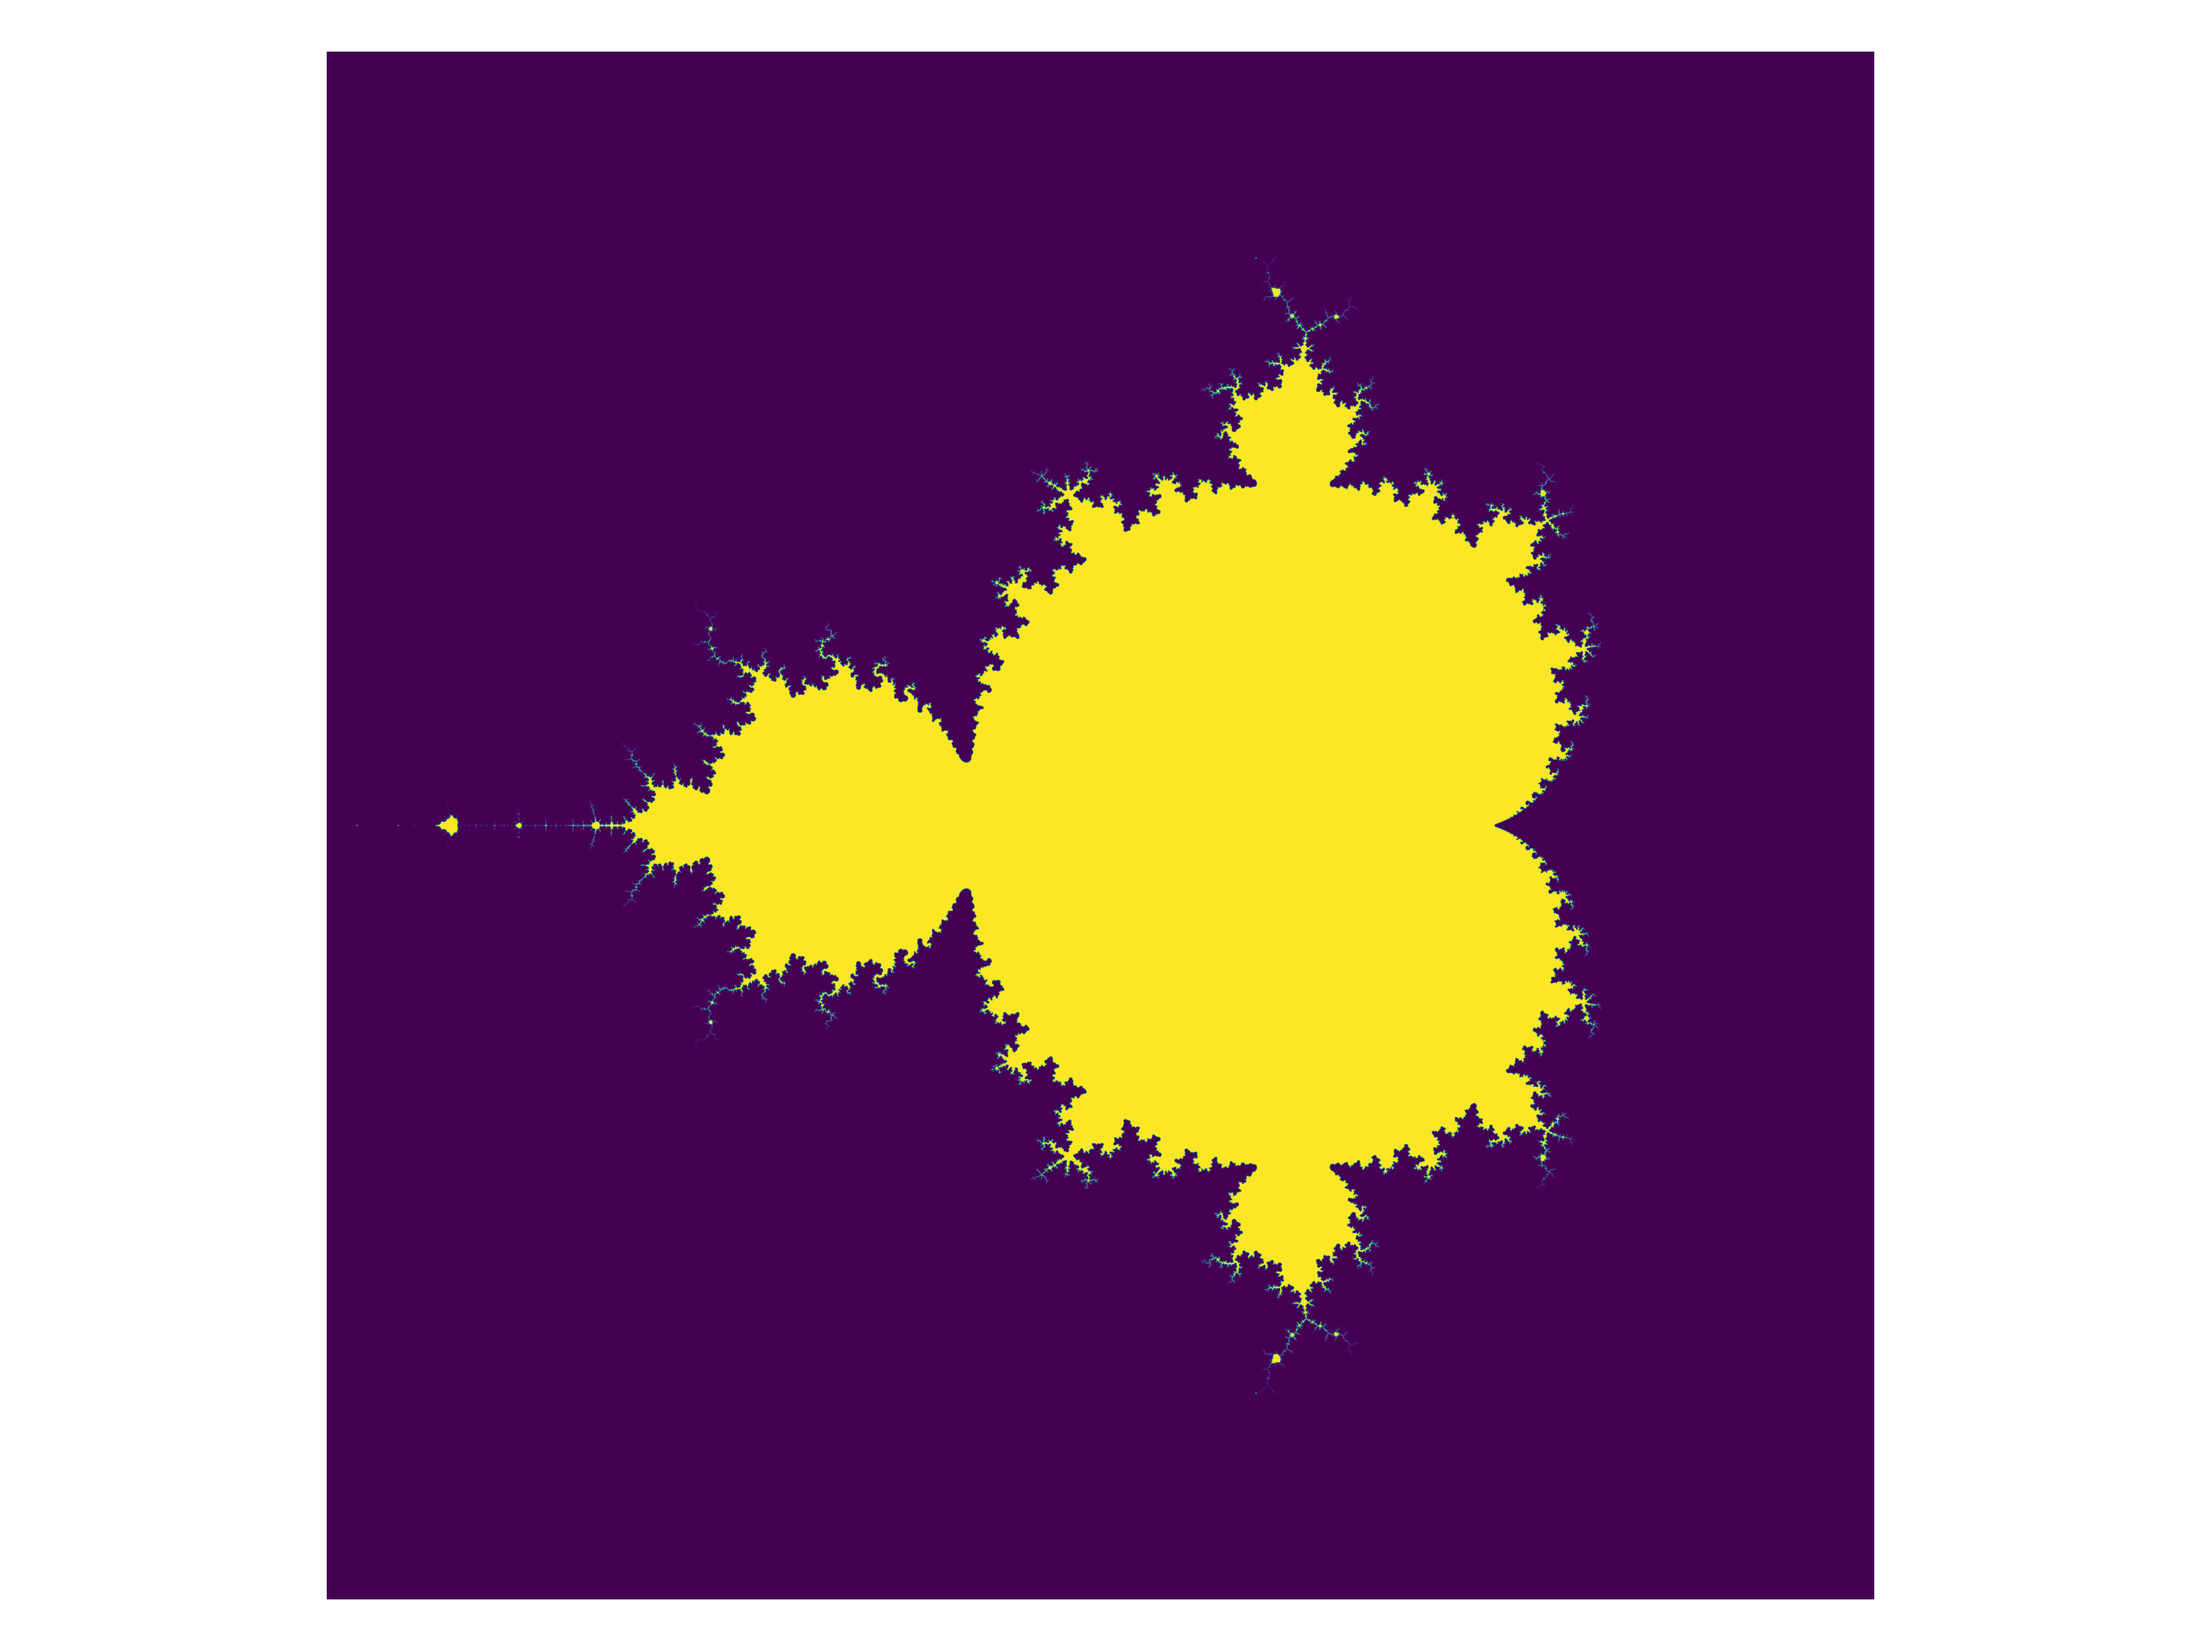
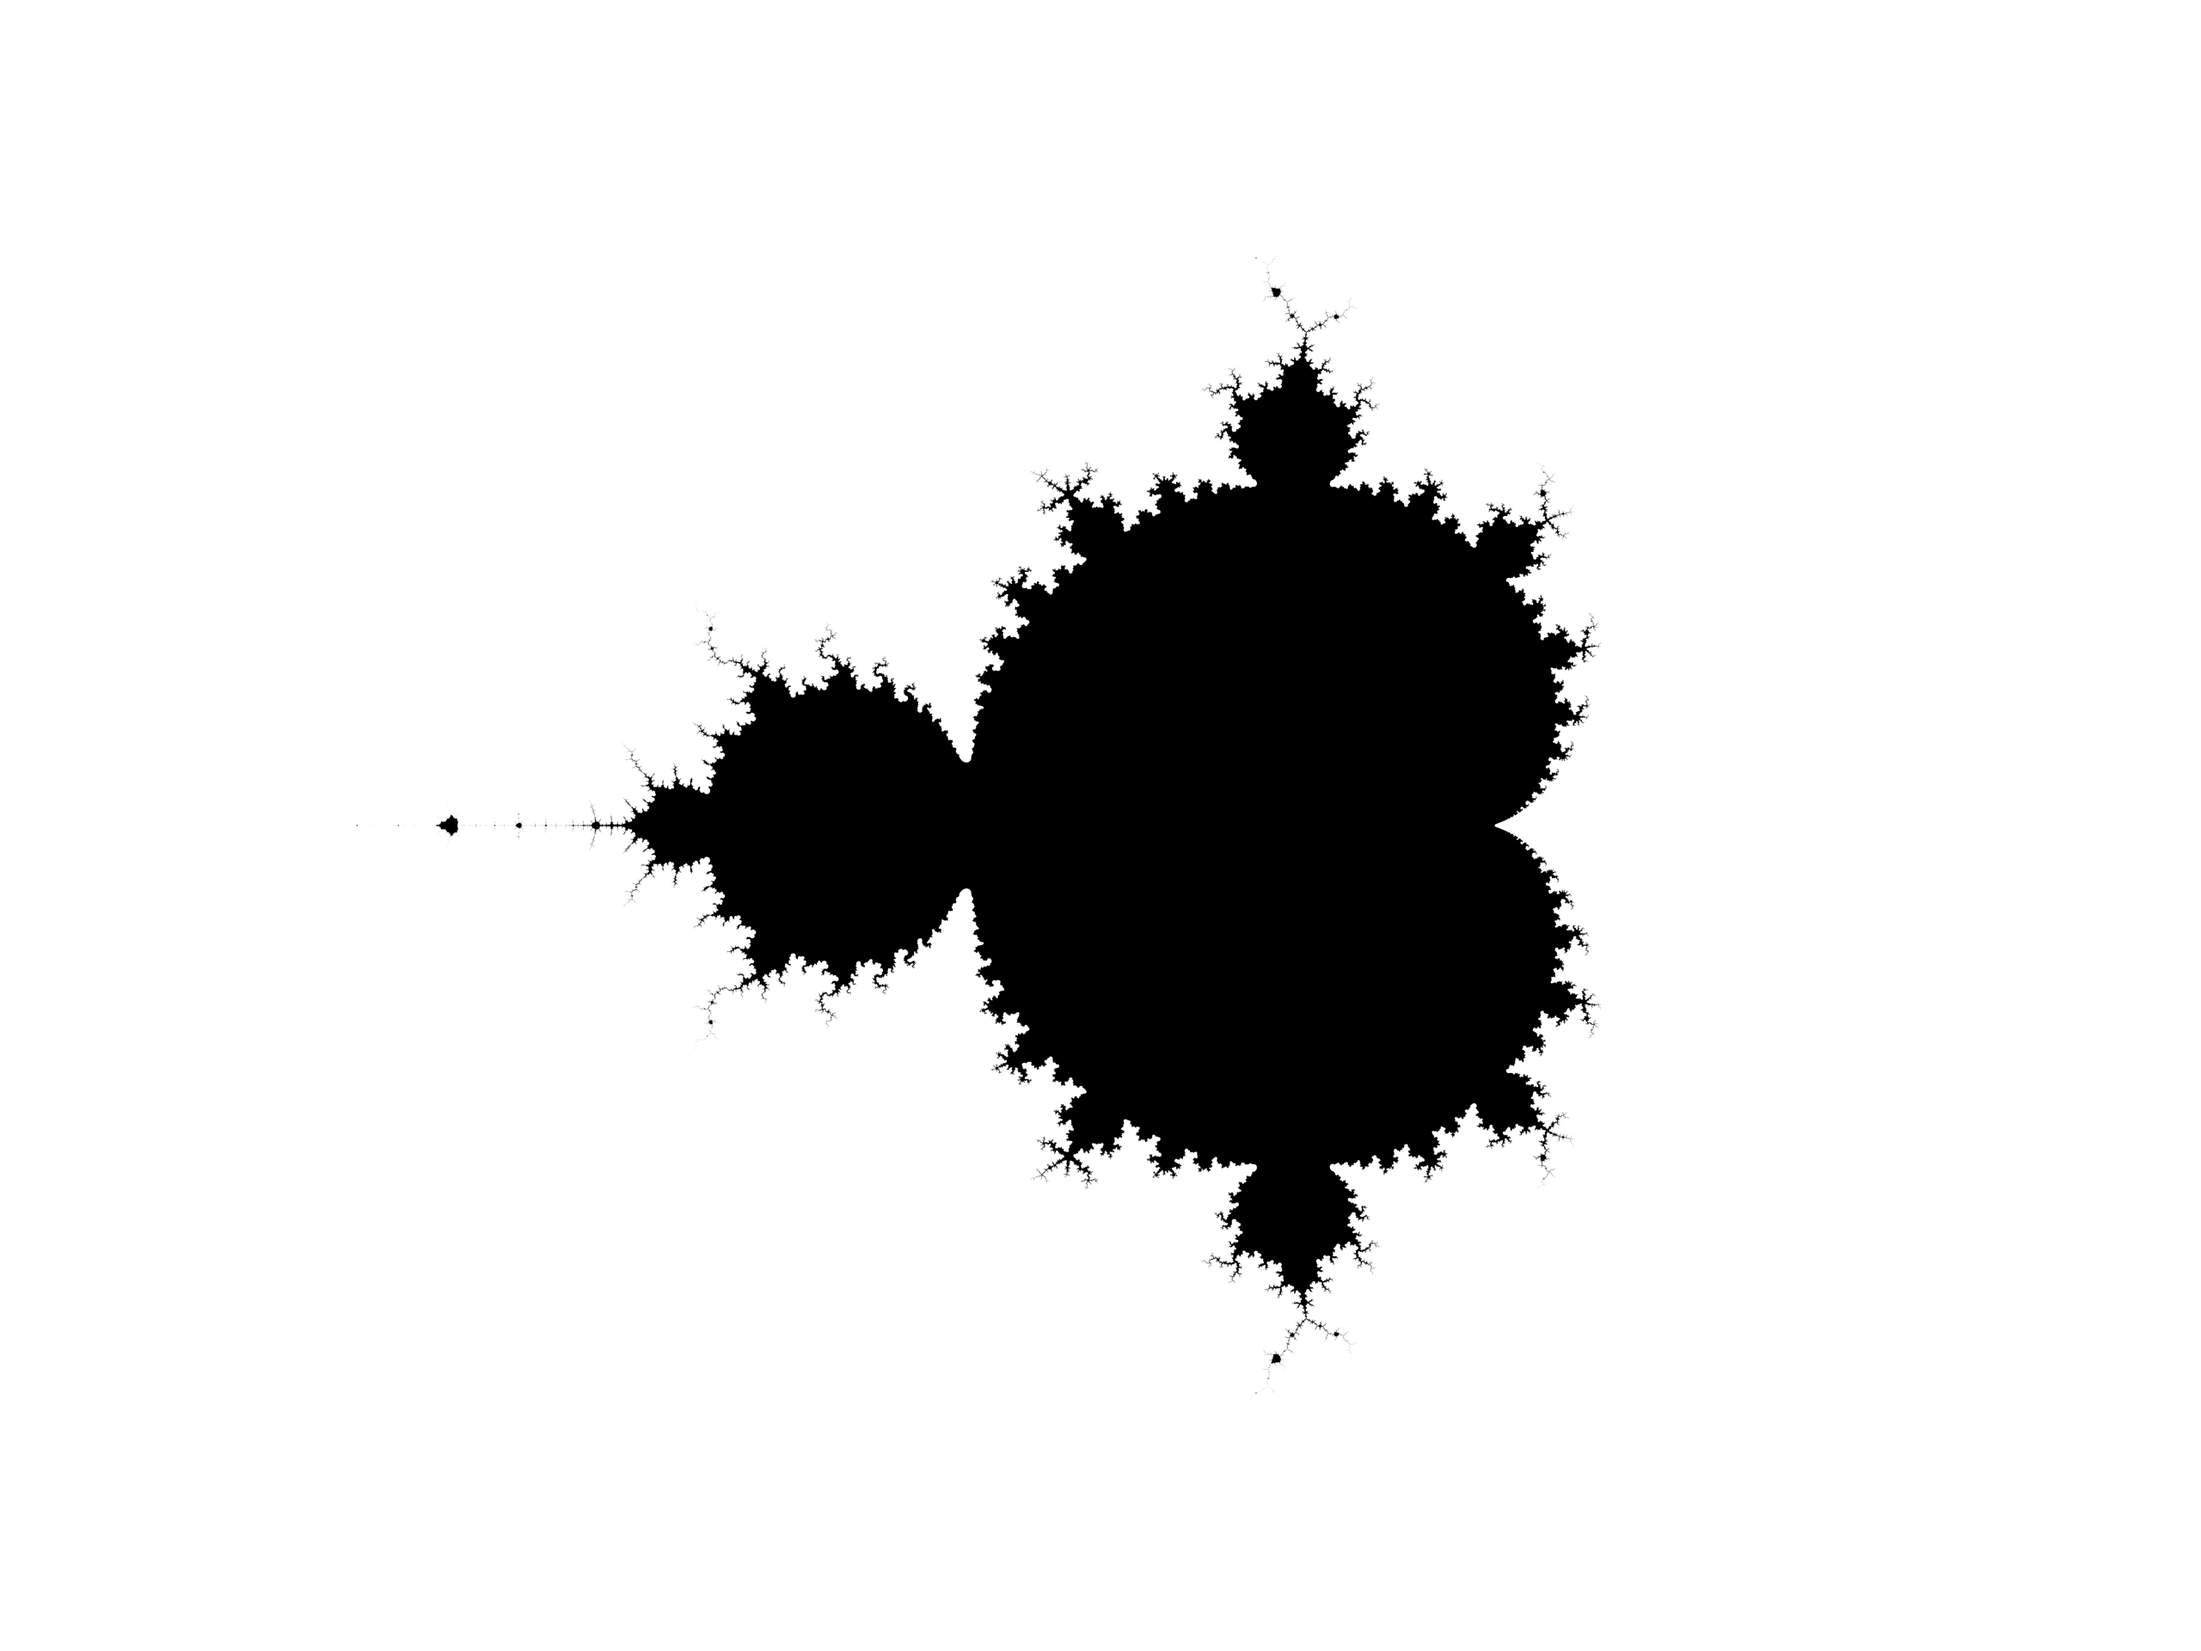
Organizando mandelbrot. Adicionando notas sobre erro no metodo de Euler.

diff --git a/Complex/creatingGrid.py b/Complex/creatingGrid.py
@@ -1,0 +1,23 @@
+import numpy as np
+import matplotlib.pyplot as plt
+
+xlim = (-10, 10)
+ylim = (0, 10)
+pixel_density = 5
+x = np.linspace(-10, 10, pixel_density*(xlim[1] - xlim[0]))
+y = np.linspace(0, 10, pixel_density*(ylim[1] - ylim[0]))
+X, Y = np.meshgrid(x, y)
+M = X + 1j*Y
+
+# Circle of radius 2
+circle_mask = abs(M - 2j) <= 2
+
+plt.gca().set_aspect("equal")
+# Plot grid
+plt.scatter(M.real, M.imag, marker=".", color ="green")
+# Plot circle
+plt.scatter(M[circle_mask].real, M[circle_mask].imag, marker=".", color="blue")
+plt.xlim(-15, 15)
+plt.ylim(-5, 15)
+plt.tight_layout()
+plt.show()

diff --git a/Complex/plottingHighRes.py b/Complex/plottingHighRes.py
@@ -1,0 +1,23 @@
+import numpy as np
+import matplotlib.pyplot as plt
+
+
+def is_stable(no_iterations = 24):
+    z = 0
+    for _ in range(no_iterations):
+        z = z**2 + M
+    return abs(z) <= 2
+
+pixel_density = 4000
+xspan = (-2, 1)
+yspan = (-1.5, 1.5)
+x = np.linspace(*xspan, int(xspan[1] - xspan[0])*pixel_density)
+y = np.linspace(*yspan, int((yspan[1] - yspan[0])*pixel_density))
+X, Y = np.meshgrid(x, y)
+M = X + 1j*Y
+plt.imshow(is_stable(), cmap = "binary")
+plt.axis("off")
+plt.tight_layout()
+plt.savefig("Complex/imgs/mandelbrot_image.png", dpi = 400)
+
+plt.show()

diff --git a/Complex/mandelbrotScatter.py b/Complex/mandelbrotScatter.py
@@ -1,0 +1,18 @@
+import numpy as np
+import matplotlib.pyplot as plt
+
+def is_stable(no_iterations = 24):
+    z = 0
+    for _ in range(no_iterations):
+        z = z**2 + M
+    return abs(z) <= 2
+
+pixel_density = 32
+x = np.linspace(-2, 1, 3*pixel_density)
+y = np.linspace(-1, 1, 2*pixel_density)
+X, Y = np.meshgrid(x, y)
+M = X + 1j*Y
+plt.scatter(M[is_stable()].real, M[is_stable()].imag, s=8, c="black", marker="x")
+plt.axis("off")
+
+plt.show()

diff --git a/Complex/mandelbrot.md b/Complex/mandelbrot.md
@@ -1,20 +1,63 @@
 # Conjunto Mandelbrot
 
 Dado um número complexo $\xi$, ele está no *conjunto de Mandelbrot* se a sequência recursiva
-$$
+$$\boxed{
 \begin{cases}
 z_0 = 0\\
 z_{n+1} = z_n^2 + \xi
 \end{cases}
-$$
+}$$
 não diverge no infinito.
+
+![mandelbrot_image](imgs/mandelbrot_image.png)
 
 # Gerador Python
 
 Em Python, a palavra-chave "yield" é usada no contexto de funções geradoras. Uma função geradora é uma função especial que retorna um objeto iterável, o qual pode ser percorrido sequencialmente. O "yield" é usado para pausar a execução da função geradora e retornar um valor temporariamente, sem encerrar completamente a função. Essa característica permite que a função seja retomada a partir do ponto onde foi pausada, mantendo seu estado interno.
 
+# MeshGrid
+
+Em python, para criar uma malha bidimensional de pontos, podemos definir o alcance de duas variáveis:
+
+```python
+x = np.linspace(-10, 10, 21)
+y = np.linspace(0, 10, 11)
+
+# x = [-10., -9., ..., 9., 10.]
+# y = [0., 1., 2., ..., 9., 10.]
+```
+
+Imagine que queremos definir os pontos de tal forma que eles representem pontos do plano complexo:
+$$\{a + bi : a\in x \text{ e } b\in y\}$$
+
+Para isso vamos expandir ambos os arrays unidimensionais para arrays bidimensionais, replicando a mesma linha nas outras:
+
+```python
+X, Y = np.meshgrid(x, y)
+
+# x = [[-10., -9., ..., 9., 10.],
+#      [-10., -9., ..., 9., 10.],
+#      ...
+#      [-10., -9., ..., 9., 10.]]
+
+# y = [[0, 0, ..., 0, 0],
+#      [1, 1, ..., 1, 1],
+#      ...
+#      [10, 10, ..., 10, 10]]
+```
+
+De forma que ambos os arrays `X` e `Y` tem a dimensão: `X.shape == (y.size, x.size)`, ou seja, tem um número de linhas iguais ao número de elementos em `y` e um número de colunas iguais ao número de elementos em `x`.
+
+Uma vez ambos foram criados, basta realizar:
+```python
+M = X + 1j*Y
+```
+
+![mandelbrot_scatter](imgs/mandelbrot_scatter.png)
+
 ---
 
 # Referências
 
-1. https://realpython.com/mandelbrot-set-python/
+1. Real Python: Draw the Mandelbrot Set in Python. [Link](https://realpython.com/mandelbrot-set-python/)
+2. Youtube, Numberphile: What's so special about the Mandelbrot Set? - Numberphile. [Link](https://youtu.be/FFftmWSzgmk)

diff --git a/ODEs/ODEs.md b/ODEs/ODEs.md
@@ -67,6 +67,8 @@ e com $\theta_0 = 90\degree$
 ![pendulumSolve01](imgs/pendulumSolve02.jpeg)
 ![pendulumSolve01](imgs/pendulumSolve-Phase02.jpeg)
 
+**Importante:** É possível ver que a amplitude da oscilação do pêndulo tende a aumentar com o tempo, violando a conservação de energia. Além disso, observe que as trajetórias no espaço de fase não são fechadas, sendo que na realidade, elas deveriam ser. Isso acontece por conta do **erro** acumulado do método.
+
 # Euler Method
 
 O método de Euler é um procedimento numérico para resolver uma equação diferencial ordinária de primeira ordem com condição inicial dada. É um método explícito e é o mais simples dos métodos de Runge-Kutta. Recebeu o nome por conta do trabalho publicado por Euler "Institutionum calculi integralis".
@@ -106,7 +108,7 @@ ___
 
 # Referências
 
-1. https://en.wikipedia.org/wiki/Lorenz_system
-2. https://en.wikipedia.org/wiki/Pendulum_(mechanics)
-3. https://www.ime.unicamp.br/~biloti/an/211/edo-01.html
-4. https://en.wikipedia.org/wiki/Euler_method
+1. Wikipedia, Lorenz system .[Link](https://en.wikipedia.org/wiki/Lorenz_system)
+2. Wikipedia, Pendulum (Mechanics). [Link](https://en.wikipedia.org/wiki/Pendulum_(mechanics))
+3. Curso de Cálculo Númerico, Prof. Biloti (Unicamp). [Link](https://www.ime.unicamp.br/~biloti/an/211/edo-01.html)
+4. Wikipedia, Euler Method. [Link](https://en.wikipedia.org/wiki/Euler_method)
